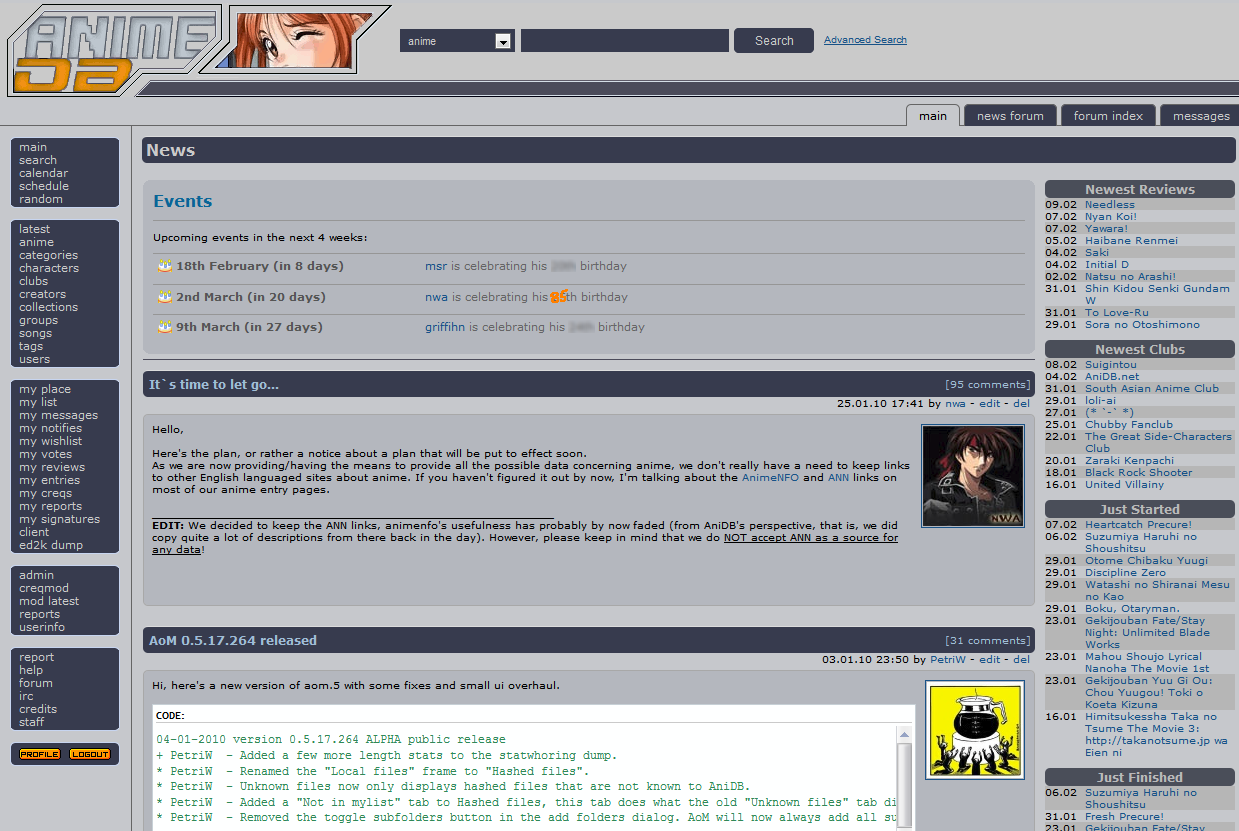
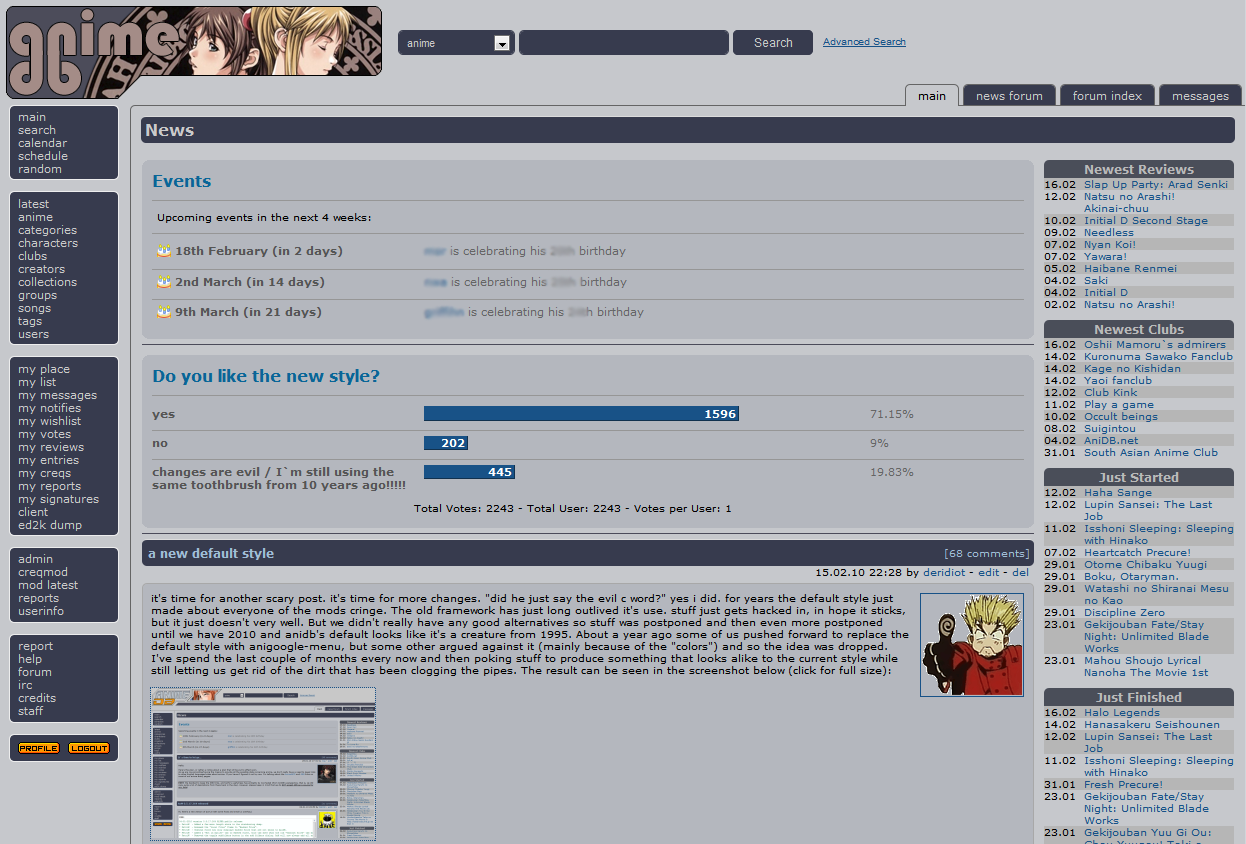
git-svn-id: svn://dev.anidb.net/svn/trunk@3384 bed53a55-4da3-433c-baf4-d4f70f2fd34a

diff --git a/css-dev/grey/grey.css b/css-dev/grey/grey.css
@@ -2275,10 +2275,14 @@ color:#FFFFFF;
 border-bottom-color:#989898;
 color: #ff6000;
 }
+#layout-main div.forum div.events dl+dl,
+#layout-main div.forum div.poll dl+dl
+{
+border-top-color:#989898;
+}
 #layout-main div.forum div.events dl,
 #layout-main div.forum div.poll dl
 {
-border-top-color:#989898;
 color:#676767;
 }
 #layout-main div.forum div.events dl dt,

diff --git a/css-dev/anidbstyle2/anidbstyle2-color.css b/css-dev/anidbstyle2/anidbstyle2-color.css
@@ -413,3 +413,16 @@ input[type="checkbox"]
 	background: #717B85;
 	color:#FFFFFF;
 }
+
+*.g_button a
+{
+	border-color:#34394D;
+	background-color:#34394D;
+	color:#CCCCCC;
+}
+
+*.g_button a:hover
+{
+	background-color: #717B85;
+	color: #FFFFFF;
+}

diff --git a/css-dev/common/layout/page/profile.css b/css-dev/common/layout/page/profile.css
@@ -211,3 +211,14 @@
 	display:table;
 	margin:-1.7em 0 0 4.5em;
 }
+
+#layout-main div.tabbed_pane div.pane div.userdata_add ul
+{
+	display: block;
+	width: auto;
+}
+
+#layout-main div.userdata_add span.current
+{
+	float:right;
+}

diff --git a/css-dev/aniblackle/aniblackle-color.css b/css-dev/aniblackle/aniblackle-color.css
@@ -460,3 +460,16 @@ tr + tr td,
 {
 	border-top-color:#666666;
 }
+
+*.g_button a
+{
+	border-color:#666666;
+	background-color:#000000;
+	color:#728972;
+}
+
+*.g_button a:hover
+{
+	background-color: #444444;
+	color: #FFFFFF;
+}

diff --git a/css-dev/anigoogle/anigoogle-color.css b/css-dev/anigoogle/anigoogle-color.css
@@ -217,3 +217,15 @@ span.g_odd,
 {
 	background-color:#C3D9FF;
 }
+
+*.g_button a
+{
+	border-color:#C9D7F1;
+	background-color:#FFFFFF;
+}
+
+*.g_button a:hover
+{
+	background-color:#ECF4FD;
+	color:#AA0000;
+}

diff --git a/css-dev/anigoogle/anigoogle-border.css b/css-dev/anigoogle/anigoogle-border.css
@@ -190,3 +190,11 @@ tr + tr td,
 	-webkit-border-radius:5px;
 	border-radius:5px;
 }
+
+*.g_button a
+{
+	border: 1px solid;
+	-webkit-border-radius: 5px;
+	-moz-border-radius: 5px;
+	border-radius: 5px;
+}

diff --git a/css-dev/common/layout/global/picupload.css b/css-dev/common/layout/global/picupload.css
@@ -1,0 +1,11 @@
+*.g_button
+{
+	margin-bottom: 2px;
+	/*display: inline-block;*/
+	display: none; /*disabling by default as this needs styling*/
+}
+
+*.g_button a
+{
+	padding: 2px 4px;
+}

diff --git a/css-dev/common/layout/global/all.css b/css-dev/common/layout/global/all.css
@@ -5,6 +5,7 @@
 @import "menu.css";
 @import "msg.css";
 @import "pagination.css";
+@import "picupload.css";
 @import "roundcorner.css";
 @import "spoiler.css";
 @import "tabbed_pane.css";

diff --git a/css-dev/anigoogle/anigoogle-layout.css b/css-dev/anigoogle/anigoogle-layout.css
@@ -346,3 +346,8 @@ h4,
 {
 	padding:2px 4px;
 }
+
+*.g_button
+{
+	display: inline-block;
+}
